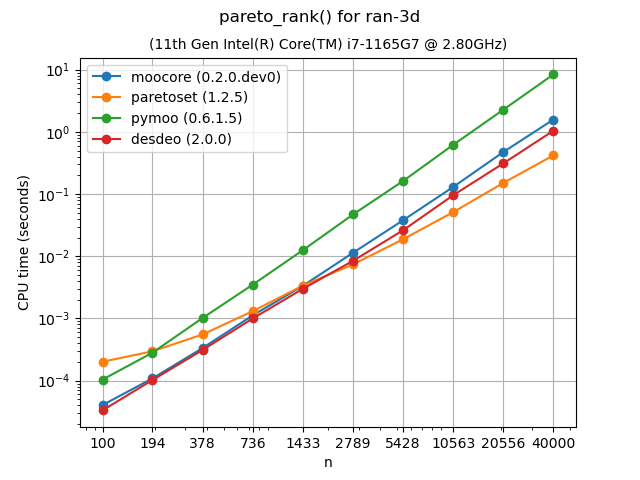
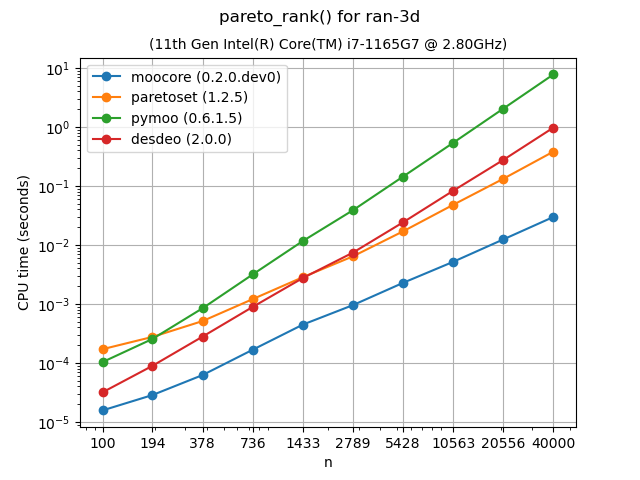
R/Python: Document new algorithm for pareto_rank() in 3D and update benchmarks.

diff --git a/python/src/moocore/_moocore.py b/python/src/moocore/_moocore.py
@@ -1495,9 +1495,10 @@ def pareto_rank(
     lists or arrays, each of them being mutually nondominated
     :footcite:p:`Deb02nsga2` (see examples below).
 
-    With 2 dimensions, the code uses the :math:`O(n \log n)` algorithm by
-    :footcite:t:`Jen03`. With higher dimensions, it uses the naive
-    :math:`O(n^3)` algorithm.
+    For 2D points, the code uses the :math:`O(n \log n)` algorithm by
+    :footcite:t:`Jen03`. For 3D points, it uses a :math:`O(k \cdot n \log
+    n)` algorithm, where :math:`k` is the number of fronts in the output.  With
+    higher dimensions, it uses the naive :math:`O(n^3)` algorithm.
 
     Parameters
     ----------

diff --git a/r/NEWS.md b/r/NEWS.md
@@ -1,3 +1,7 @@
+# moocore 0.2.0
+
+ * `pareto_rank()` is faster in 3D.
+
 # moocore 0.1.9
 
  * `hv_contributions()` ignores dominated points by default.  Set `ignore_dominated=FALSE` to restore the previous behavior.  The 3D case uses the HVC3D algorithm.

diff --git a/python/doc/source/whatsnew/index.rst b/python/doc/source/whatsnew/index.rst
@@ -8,7 +8,7 @@ Version 0.2.0 (development)
 ---------------------------
 
 - New :ref:`bench-ndsort` benchmarks.
-
+- :func:`~moocore.pareto_rank` is faster in 3D.
 
 Version 0.1.9 (31/10/2025)
 --------------------------
